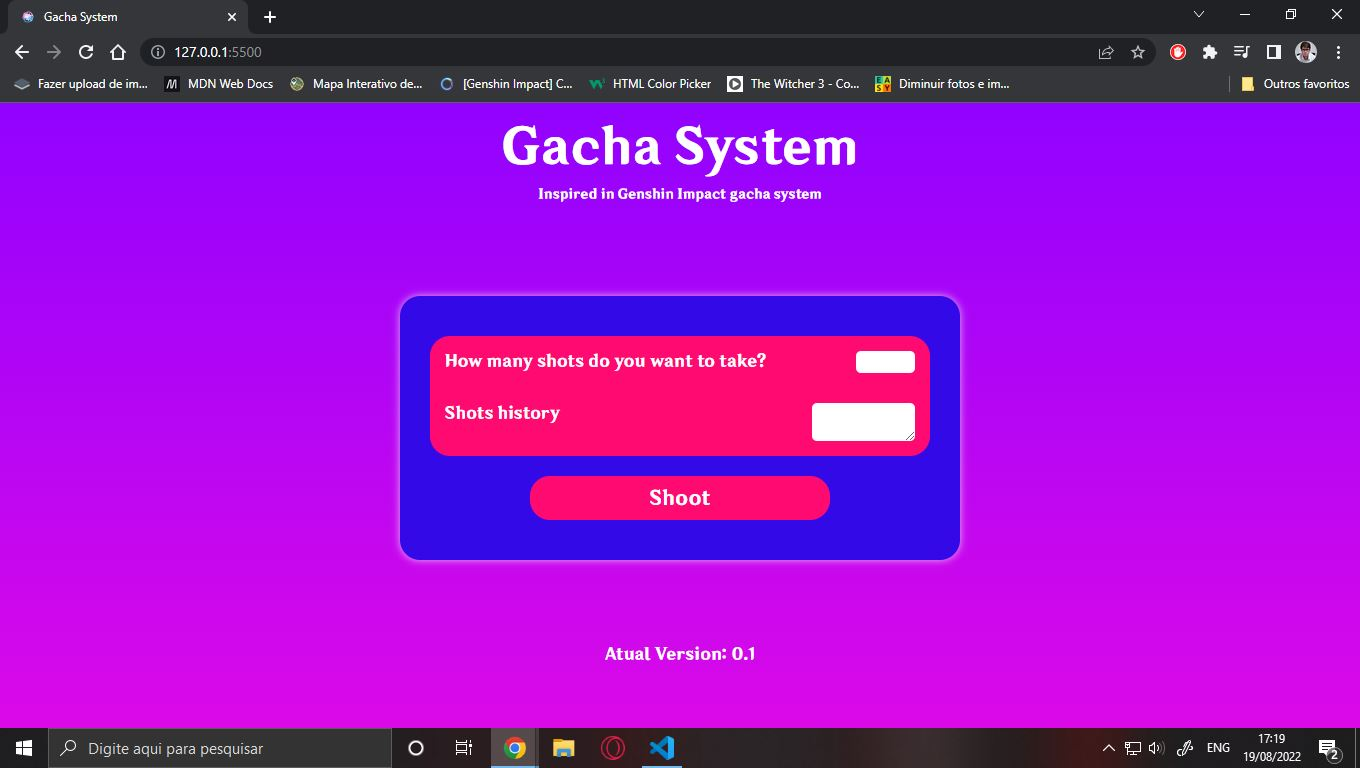
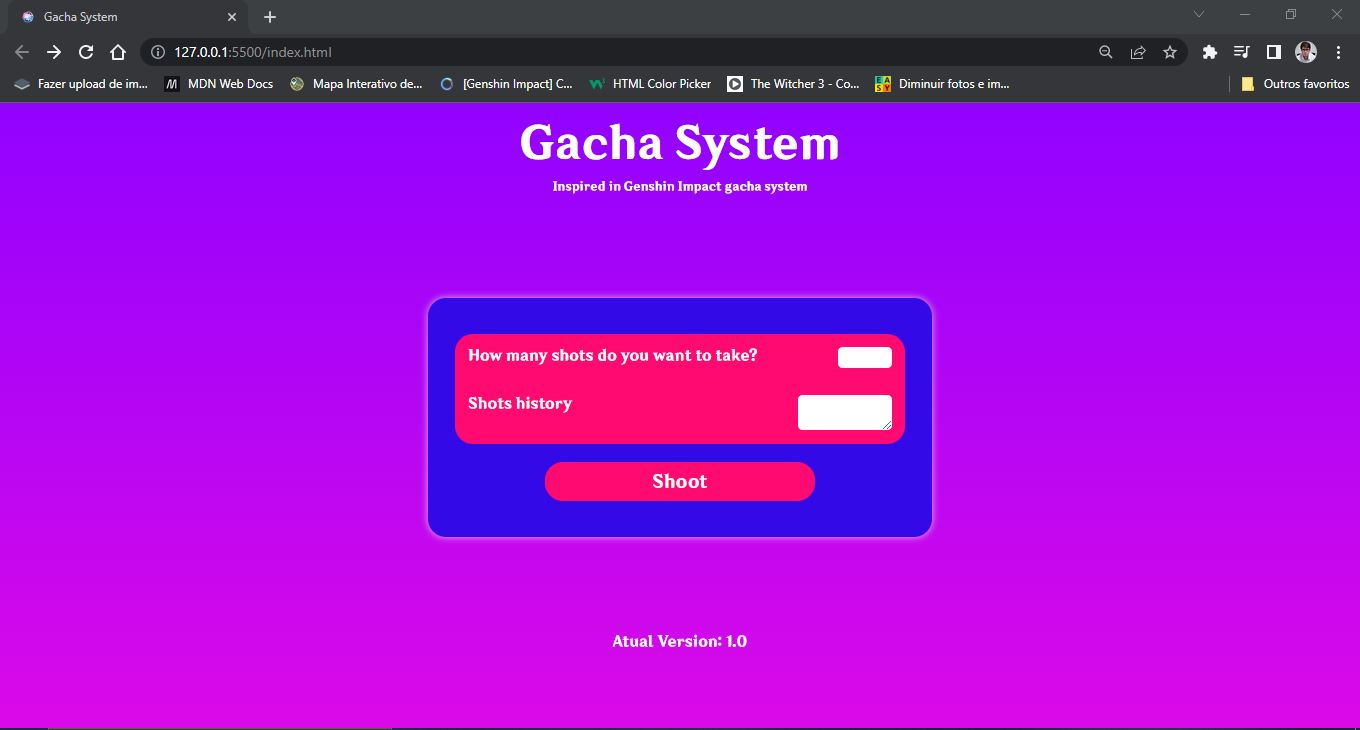
Project upgraded to version 1.0

diff --git a/public/js/script.js b/public/js/script.js
@@ -3,21 +3,30 @@ let resultado = document.getElementById('resultado')
 let divresultado = document.querySelector('.resultado')
 let tiros = document.getElementById('tiros')
 let historico = document.getElementById('historico')
+let imgres = document.getElementById('divimg')
 
 let personagem4 = ['Bennett', 'Razor', 'Fischl', 'Amber', 'Barbara', 'Diona', 'Kujou Sara', 'Lisa', 'Ningguang', 'Rosaria']
 
 let personagem5 = ['Raiden Shogun', 'Kamisato Ayaka', 'Diluc', 'Mona', 'Arataki Itto', 'Eula', 'Hu Tao', 'Ganyu', 'Kaedehara Kazuha', 'Yae Miko']
 
+
 button.addEventListener("click", (event) => {
 
     event.preventDefault()
 
+    let char5 = pers5()
+
+    let char4 = pers4()
+
+    let SwitchChar = ""
+
     function pers4() {
-        return personagem4 [Math.floor(Math.random() * personagem4.length)]
+    return personagem4 [Math.floor(Math.random() * personagem4.length)]
     }
 
     function pers5() {
-        return personagem5[Math.floor(Math.random() * personagem5.length)]
+        return personagem5[Math.floor(Math.random() * personagem5.length)] 
+        
     }
 
     if (Number(tiros.value) <= 0) {
@@ -27,17 +36,20 @@ button.addEventListener("click", (event) => {
     
     if (Number(tiros.value) == 100) {
         divresultado.removeAttribute('hidden')
-        resultado.innerText = `Congratulations! You got the five star character ${pers5()}.`
+        resultado.innerText = `Congratulations! You got the five star character ${char5}.`
+        SwitchChar = char5
     }
 
     if ((Number(tiros.value) + Number(historico.value) < 100) && (Number(tiros.value) + Number(historico.value)) > 0 ) {
         divresultado.removeAttribute('hidden')
-        resultado.innerText = `Congratulations! You got the four star character ${pers4()}.`
+        resultado.innerText = `Congratulations! You got the four star character ${char4}.`
+        SwitchChar = char4
     }
 
     if ((Number(tiros.value) + Number(historico.value)) >= 100 ) {
         divresultado.removeAttribute('hidden')
-        resultado.innerText = `Congratulations! You got the five star character ${pers5()}.`
+        resultado.innerText = `Congratulations! You got the five star character ${char5}.`
+        SwitchChar = char5
     }
 
     let hist = Number(tiros.value) + Number(historico.value)
@@ -46,9 +58,116 @@ button.addEventListener("click", (event) => {
     historico.innerText = hist
 
 
-    if (Number(historico.value) >= 100 ) {
+    if (Number(historico.value) >= 101 ) {
         historico.innerText = ""
 
+    }
+
+    switch(SwitchChar) {
+        case "Raiden Shogun":
+            divimg.removeAttribute('hidden')
+            divimg.innerHTML = "<img src = '../public/images/raiden.jpg'>"
+        break
+
+        case "Kamisato Ayaka":
+            divimg.removeAttribute('hidden')
+            divimg.innerHTML = "<img src = '../public/images/ayaka.jpg'>"
+        break    
+        
+        case "Diluc":
+            divimg.removeAttribute('hidden')
+        divimg.innerHTML = "<img src = '../public/images/diluc.jpg'>"
+        break
+
+        case "Eula":
+            divimg.removeAttribute('hidden')
+            divimg.innerHTML = "<img src = '../public/images/eula.jpg'>"
+        break
+
+        case "Ganyu":
+            divimg.removeAttribute('hidden')
+            divimg.innerHTML = "<img src = '../public/images/ganyu.jpg'>"
+        break
+
+        case "Hu Tao":
+            divimg.removeAttribute('hidden')
+            divimg.innerHTML = "<img src = '../public/images/hutao.jpg'>"
+        break
+
+        case "Arataki Itto":
+            divimg.removeAttribute('hidden')
+            divimg.innerHTML = "<img src = '../public/images/itto.jpg'>"
+        break
+
+        case "Kaedehara Kazuha":
+            divimg.removeAttribute('hidden')
+            divimg.innerHTML = "<img src = '../public/images/kazuha.jpg'>"
+        break
+
+        case "Mona":
+            divimg.removeAttribute('hidden')
+            divimg.innerHTML = "<img src = '../public/images/mona.jpg'>"
+        break
+
+        case "Yae Miko":
+            divimg.removeAttribute('hidden')
+            divimg.innerHTML = "<img src = '../public/images/yae.jpg'>"
+        break
+
+        case "Lisa":
+            divimg.removeAttribute('hidden')
+            divimg.innerHTML = "<img src = '../public/images/lisa.jpg'>"
+        break
+
+        case "Barbara":
+            divimg.removeAttribute('hidden')
+            divimg.innerHTML = "<img src = '../public/images/barbara.jpg'>"
+        break
+
+        case "Bennett":
+            divimg.removeAttribute('hidden')
+            divimg.innerHTML = "<img src = '../public/images/bennett.jpg'>"
+        break
+
+        case "Diona":
+            divimg.removeAttribute('hidden')
+            divimg.innerHTML = "<img src = '../public/images/diona.jpg'>"
+        break
+
+        case "Fischl":
+            divimg.removeAttribute('hidden')
+            divimg.innerHTML = "<img src = '../public/images/fischl.jpg'>"
+        break
+
+        case "Kujou Sara":
+            divimg.removeAttribute('hidden')
+            divimg.innerHTML = "<img src = '../public/images/kujousara.jpg'>"            
+        break
+
+        case "Ningguang":
+            divimg.removeAttribute('hidden')
+            divimg.innerHTML = "<img src = '../public/images/ningguang.jpg'>"
+        break
+
+        case "Razor":
+            divimg.removeAttribute('hidden')
+            divimg.innerHTML = "<img src = '../public/images/razor.jpg'>"
+        break
+
+        case "Rosaria":
+            divimg.removeAttribute('hidden')
+            divimg.innerHTML = "<img src = '../public/images/rosaria.jpg'>"
+        break
+
+        case "Amber":
+            divimg.removeAttribute('hidden')
+            divimg.innerHTML = "<img src = '../public/images/amber.png'>"
+        break
+
+        default :
+        divimg.removeAttribute('hidden')
+            divimg.innerHTML = "character image error"
+        break    
     }
 
 })

diff --git a/index.html b/index.html
@@ -19,6 +19,9 @@
 
         <div class="resultado" hidden>
             <span id="resultado"></span>
+            <div id="divimg" hidden>
+
+            </div>
         </div>
 
         <div class="form">
@@ -36,6 +39,6 @@
 
     </main>
 
-    <footer class="rodape">Atual Version: 0.1</footer>
+    <footer class="rodape">Atual Version: 1.0</footer>
 </body>
 </html>

diff --git a/public/css/style.css b/public/css/style.css
@@ -73,6 +73,13 @@ main {
     border-radius: 20px;
 }
 
+#divimg img {
+    width: 450px;
+    height: 250px;
+    margin-top: 10px;
+    border-radius: 10px;
+}
+
 .form  {    
     background-color: var(--color2);
     padding: 15px;

diff --git a/readme.md b/readme.md
@@ -2,9 +2,15 @@
 <br>
 <h2 align = "center"> In this project I made a Gacha System with Javascript</h2>
 <br>
-<p align = "center">This is version 0.1 of the project. I plan to update it in the future.
-The gacha system works like this: if you shoot 10 shots, you get a four star character. When you hit the 100-shot mark or take 100 shots at once, you get a five-star character.
-The system was inspired by Genshin Impact. The images below show how the project works.</p>
+<h3 align = "center"> Version 1.0 is out!</h3>
+<br>
+<p align = "center"> In this version all the structures were changed to improve the functioning of the gacha and with that new variables were added to help this functioning.
+And the biggest change was the addition of the structure responsible for making the images of the respective characters taken in gacha appear. Bellow you can see a demo gif of the project and some screenshots
+This is not yet the final version of the project!</p>
+<br>
+<div align = "center">
+<video src="/public/images/demo-gif.gif" width="500px">
+</div>
 <br>
 <div align="center">
 <img src="public/images/screenshot1.JPG" width = "500px">
@@ -18,6 +24,9 @@ The system was inspired by Genshin Impact. The images below show how the project
 <br>
 <div align="center">
 <img src="public/images/screenshot3.JPG" width = "500px">
+</div>
+<div align="center">
+<img src="public/images/screenshot3.5.JPG" width = "500px">
 </div>
 <br>
 <br>
